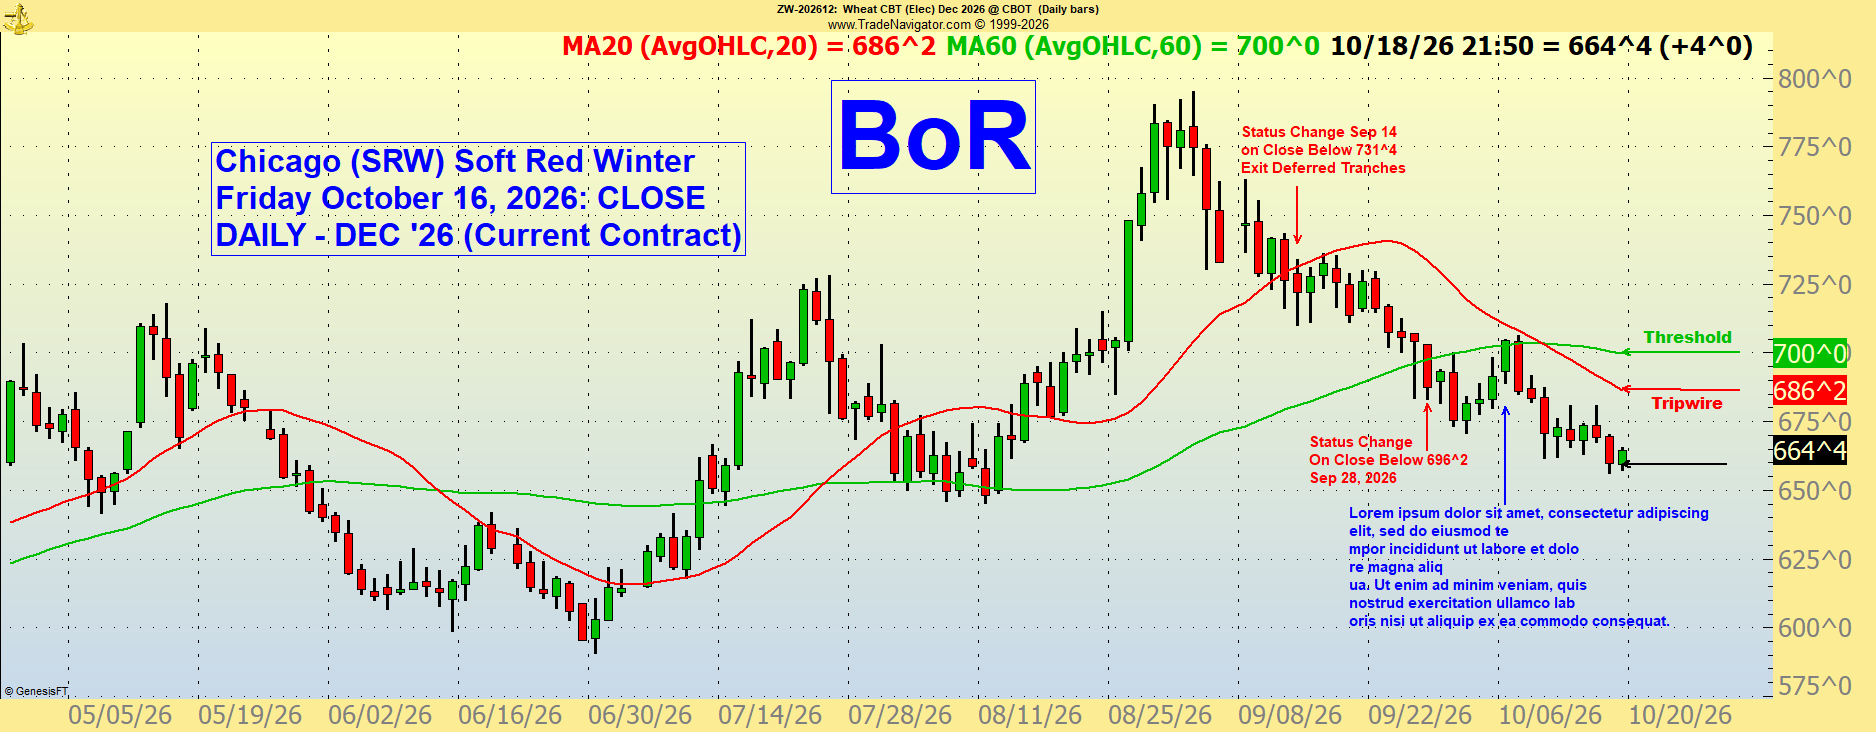
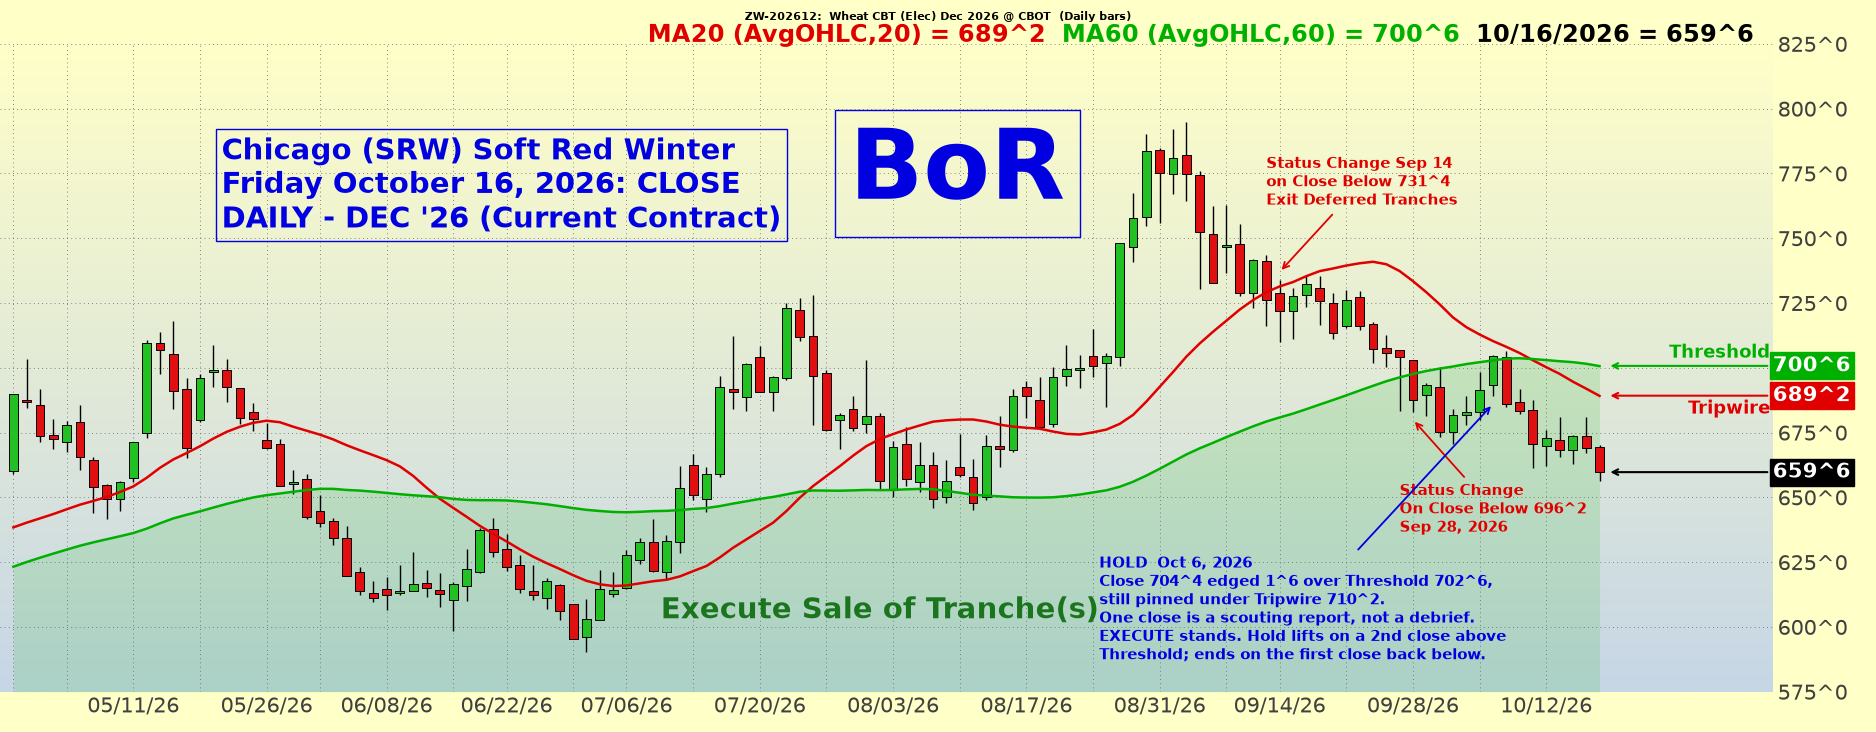
BoR: engine-drawn chart live, Oct 6 hold notice, settle-based header change
- Publish engine-drawn WHEAT_SRW_BOR_D.png (shaded Execute zone) to charts/
- Notes: optional color, dy offset, right-align; zone label avoids notes
- Add Oct 6 discretionary-hold notice (replaces Lorem ipsum placeholder)
- Header day change comes only from TN Net Change or Settle columns; omitted otherwise
- parse_price handles negative ^-format values

diff --git a/tools/bor/bor_update.py b/tools/bor/bor_update.py
@@ -74,7 +74,8 @@ def parse_price(s):
     s = s.strip()
     if "^" in s:
         whole, e = s.split("^")
-        return int(whole) + int(e) / 8
+        sign = -1 if whole.startswith("-") else 1
+        return sign * (abs(int(whole)) + int(e) / 8)
     return float(s)
 
 
@@ -117,6 +118,11 @@ def split_paste(text):
         bars = pd.DataFrame([r[:5] for r in rows], columns=cols)
         bars["Date"] = pd.to_datetime(bars.Date).dt.normalize()
         bars[cols[1:]] = bars[cols[1:]].astype(float)
+        # Optional Trade Navigator columns: Settle and Net Change (header change uses them if present)
+        for name, pat in (("Settle", r"^settle"), ("NetChg", r"^net\s*ch|^chg$|^change$")):
+            j = next((k for k, h in enumerate(header or []) if re.search(pat, h.strip(), re.I)), None)
+            if j is not None:
+                bars[name] = [parse_price(r[j]) if len(r) > j and r[j].strip() else np.nan for r in rows]
     return directives, bars
 
 
@@ -360,7 +366,6 @@ def draw(d, ann, out):
     x = np.arange(len(v))
     last = v.iloc[-1]
     end = len(v) - 1
-    prev_close = d.Close.iloc[-2]
 
     lo = math.floor((v.Low.min() - 15) / 25) * 25
     hi = math.ceil((v.High.max() + 15) / 25) * 25
@@ -427,8 +432,33 @@ def draw(d, ann, out):
     ax.plot(x, v.MA20, color=RED, lw=1.8, zorder=5)
     ax.plot(x, v.MA60, color=GREEN, lw=1.8, zorder=5)
 
-    # Zone label in the emptiest stretch of the shading
-    cx, top = label_spot(np.minimum(v.Low.values, v.MA60.values), lo, width=28)
+    # Note placement, worked out up front so the zone label can steer clear of notes
+    idx = {dt: i for i, dt in enumerate(v.Date)}
+    bar_px = W * 0.945 / (xr + 1)
+    unit_px = H * 0.885 / (hi - lo)
+    placed = []
+    for n in ann["note"]:
+        nd = pd.Timestamp(n["date"])
+        if nd not in idx:
+            continue
+        i, r = idx[nd], v.iloc[idx[nd]]
+        above = n["anchor"] == "high"
+        y0 = r.High + 3 if above else r.Low - 3
+        ty = y0 + (n.get("dy", 24) if above else -n.get("dy", 24))
+        right = n.get("align") == "right"  # optional: text ends at the candle and runs left
+        tx = i + 1 if right else i - 1
+        lines = n["text"].split("|")
+        span = max(map(len, lines)) * 9 / bar_px
+        x0, x1 = (tx - span, tx) if right else (tx, tx + span)
+        placed.append((n, i, y0, tx, ty, above, right, x0, x1, ty - len(lines) * 18 / unit_px))
+
+    # Zone label in the emptiest stretch of the shading, below any notes hanging into it
+    ceiling = np.minimum(v.Low.values, v.MA60.values)
+    for *_, above, _r, x0, x1, bottom in placed:
+        if not above:
+            a, b = max(int(x0) - 1, 0), min(int(x1) + 2, len(ceiling))
+            ceiling[a:b] = np.minimum(ceiling[a:b], bottom)
+    cx, top = label_spot(ceiling, lo, width=28)
     ax.text(cx, lo + (top - lo) * 0.45, ZONE_LABEL, color="#006400", fontsize=21,
             fontweight="bold", ha="center", va="center", alpha=0.85, zorder=6)
 
@@ -447,18 +477,12 @@ def draw(d, ann, out):
                 arrowprops=dict(arrowstyle="->", color="black", lw=1.5), zorder=7)
 
     # Analyst notes — Gary's calls
-    idx = {dt: i for i, dt in enumerate(v.Date)}
-    for n in ann["note"]:
-        nd = pd.Timestamp(n["date"])
-        if nd not in idx:
-            continue
-        i, r = idx[nd], v.iloc[idx[nd]]
-        above = n["anchor"] == "high"
-        y0 = r.High + 3 if above else r.Low - 3
-        ax.annotate(n["text"].replace("|", "\n"), xy=(i, y0), xytext=(i - 1, y0 + (24 if above else -24)),
-                    color=RED, fontsize=11, fontweight="bold", ha="left",
+    for n, i, y0, tx, ty, above, right, *_ in placed:
+        col = {"red": RED, "blue": BLUE, "green": GREEN}.get(n.get("color", "red"), RED)
+        ax.annotate(n["text"].replace("|", "\n"), xy=(i, y0), xytext=(tx, ty),
+                    color=col, fontsize=11, fontweight="bold", ha="right" if right else "left", multialignment="left",
                     va="bottom" if above else "top",
-                    arrowprops=dict(arrowstyle="->", color=RED, lw=1.3), zorder=7)
+                    arrowprops=dict(arrowstyle="->", color=col, lw=1.3), zorder=7)
 
     ax.yaxis.tick_right()
     yt = range(int(lo), int(hi) + 1, 25)
@@ -473,11 +497,18 @@ def draw(d, ann, out):
 
     # Header strip
     fig.patch.set_facecolor("#FFFFC8")
-    chg = close - prev_close
+    # Day's change only from TN's own Net Change or Settle columns; the Close column is last trade,
+    # so close-minus-close can disagree with TN's header. No column, no change shown.
+    chg = None
+    if pd.notna(last.get("NetChg", np.nan)):
+        chg = last.NetChg
+    elif pd.notna(last.get("Settle", np.nan)) and pd.notna(d.iloc[-2].get("Settle", np.nan)):
+        chg = last.Settle - d.iloc[-2].Settle
+    chg_txt = "" if chg is None else f" ({'+' if chg >= 0 else ''}{eighths(chg)})"
     fig.text(0.5, 0.985, ann["symbol_line"], ha="center", va="top", fontsize=8, fontweight="bold")
     hdr = [(f"MA20 (AvgOHLC,20) = {eighths(ma20)}", RED),
            (f"  MA60 (AvgOHLC,60) = {eighths(ma60)}", GREEN),
-           (f"  {last.Date:%m/%d/%Y} = {eighths(close)} ({'+' if chg >= 0 else ''}{eighths(chg)})", "black")]
+           (f"  {last.Date:%m/%d/%Y} = {eighths(close)}{chg_txt}", "black")]
     t = fig.text(0.935, 0.935, hdr[-1][0], ha="right", va="bottom", fontsize=17,
                  fontweight="bold", color=hdr[-1][1])
     fig.canvas.draw()
@@ -541,7 +572,8 @@ def main():
 
     # Save state only after a successful draw
     DATA_DIR.mkdir(parents=True, exist_ok=True)
-    d[["Date", "Open", "High", "Low", "Close"]].to_csv(HISTORY, index=False, date_format="%Y-%m-%d")
+    keep = ["Date", "Open", "High", "Low", "Close"] + [c for c in ("Settle", "NetChg") if c in d]
+    d[keep].to_csv(HISTORY, index=False, date_format="%Y-%m-%d")
     ANNOTATIONS.write_text(json.dumps(ann, indent=2), encoding="utf-8")
 
     print(f"Chart:  {out}{'  (LIVE)' if args.live else '  (preview)'}")
